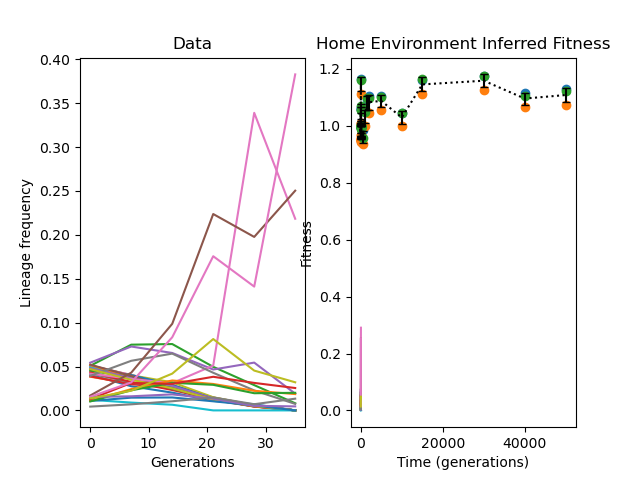
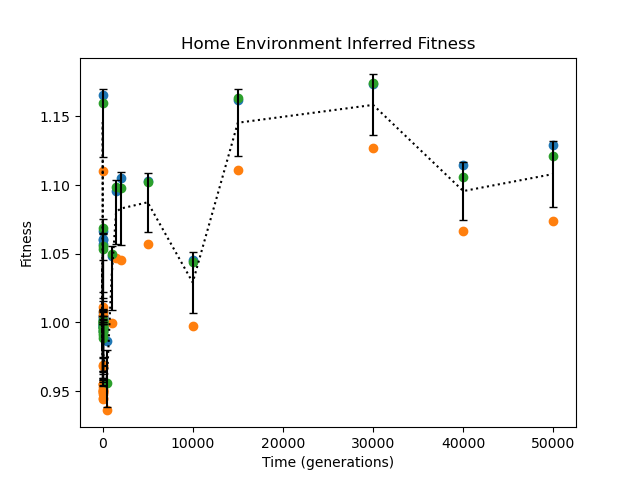
Made plotting a separate function from main pipeline

diff --git a/Fitness_inference.py b/Fitness_inference.py
@@ -37,6 +37,31 @@ def save_fitness(filename, lineages, s_vals, replicates, stats):
     out.close()
 
 
+def read_s(out, population, environment, replicates=3):
+    """
+    Reads fitness_pipeline fitness files from out folder back into data (easier/faster than re-running the pipeline)
+
+    Parameters:
+        out(str) - file tag user imputs
+        population(str) - population of interest
+        environment(str) - fitness assay environment
+    """
+    name = out + "_" + population + "_" + environment + "_fitness.csv"
+    data_file = raw.get_dir(name, "out")
+    bc_read = pd.read_csv(data_file, sep=",", header=0)
+    lineages = len(bc_read.index)
+    s = np.zeros((replicates, lineages))
+    stats = np.zeros((lineages, 2))
+    barcodes = bc_read["BC"].tolist()
+    for rep in range(0, replicates):
+        k = "s_" + str(rep + 1)
+        s[rep] = bc_read[k]
+    stats[:, 0] = bc_read["average"]
+    stats[:, 1] = bc_read["standard deviation"]
+
+    return s, stats, barcodes
+
+
 def fitness_plot(gens, s, stats, filename):
     """
     Plots LTEE lineage fitness per generation.
@@ -57,6 +82,7 @@ def fitness_plot(gens, s, stats, filename):
     plt.ylabel('Fitness')
     out_file = raw.get_dir(filename, "out")
     plt.savefig(out_file)
+    plt.close()
 
 
 def fitness_pipeline(output, population, environment, reference=1, replicates=3, bc_ass="d0_j.csv", max_days=5,
@@ -128,4 +154,3 @@ def fitness_pipeline(output, population, environment, reference=1, replicates=3,
         return barcodes, s, stats
 
     save_fitness(name + "_fitness.csv", barcodes, s, replicates, stats)
-    fitness_plot(barcodes, s, stats, name + "_fit.png")

diff --git a/LTEE_loop.py b/LTEE_loop.py
@@ -21,4 +21,6 @@ environment_list = ["aceH", "aceL", "ampL", "chlL", "cipL", "fruH", "fruL", "glu
 
 for e in environment_list:
     print(e)
-    f.fitness_pipeline(out, pop, e, format=True)
+    #f.fitness_pipeline(out, pop, e, format=True)
+    s, stats, barcodes = f.read_s(out, pop, e)
+    f.fitness_plot(barcodes, s, stats, out + "_" + pop + "_" + e + "_fit.png")
